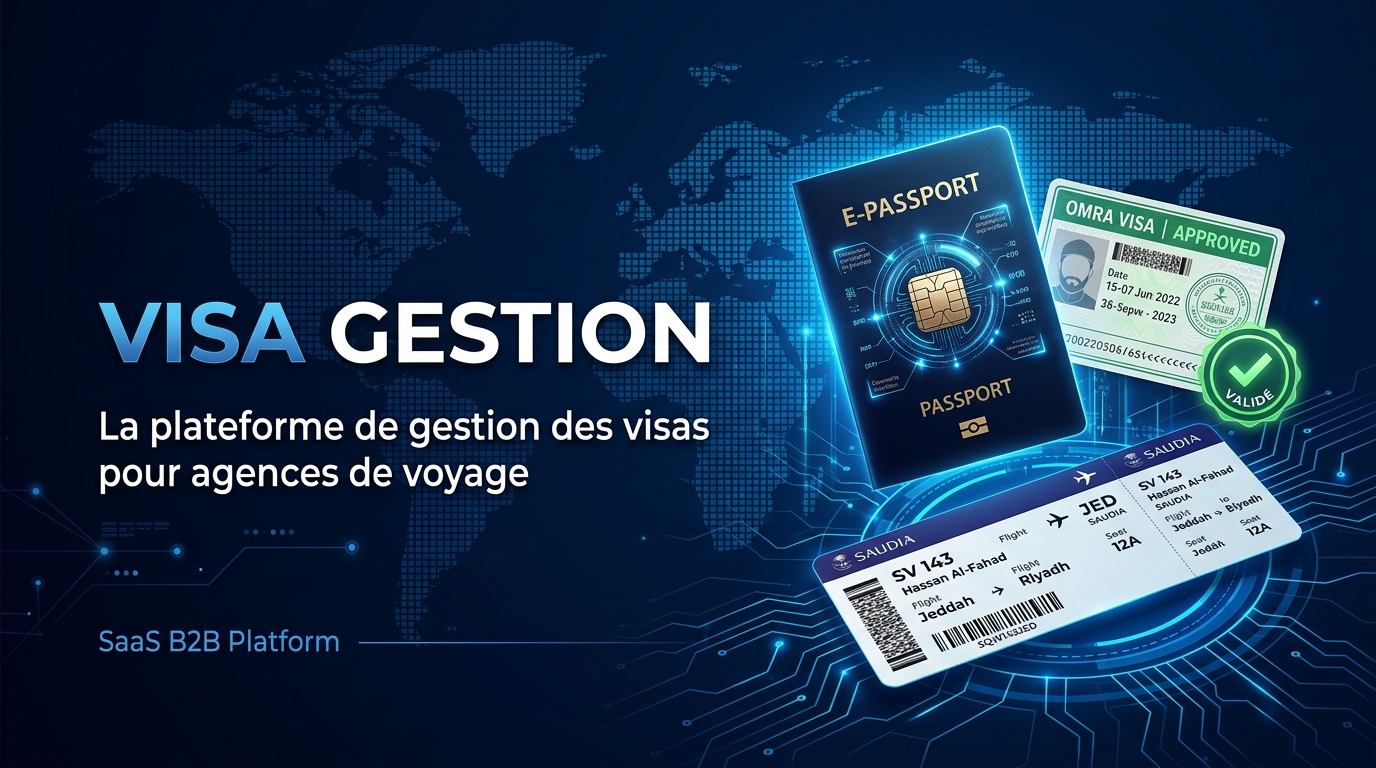
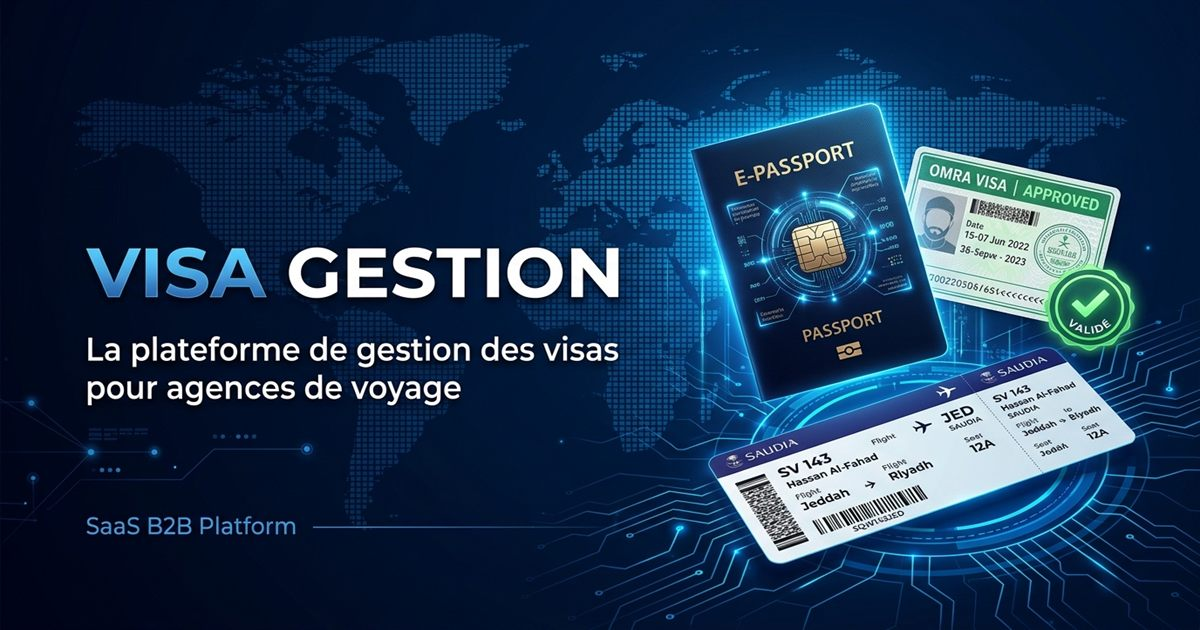
fix: compatibilite Open Graph WhatsApp Web (compression image sous 130KB, ratio 1200x630, tag link image_src et balises statiques dans le head)

Changed region(s): [[0.6783, 0.7841, 0.7708, 0.8444], [0.6475, 0.2413, 0.7092, 0.2714]]

diff --git a/app/layout.tsx b/app/layout.tsx
@@ -43,10 +43,19 @@ export const metadata: Metadata = {
     description: 'Fini le chaos WhatsApp. Centralisez vos dossiers de visas, profitez de l\'extraction automatique par IA et suivez l\'état consulaire en temps réel.',
     images: [
       {
-        url: '/og-image.jpg',
+        url: 'https://visa-gestion.vercel.app/og-image.jpg',
+        secureUrl: 'https://visa-gestion.vercel.app/og-image.jpg',
         width: 1200,
         height: 630,
         alt: 'Visa Gestion — Plateforme SaaS B2B pour Agences de Voyages et Formalités Consulaires',
+        type: 'image/jpeg',
+      },
+      {
+        url: 'https://visa-gestion.vercel.app/og-image-square.jpg',
+        secureUrl: 'https://visa-gestion.vercel.app/og-image-square.jpg',
+        width: 600,
+        height: 600,
+        alt: 'Visa Gestion Logo & Emblème',
         type: 'image/jpeg',
       },
     ],
@@ -55,7 +64,7 @@ export const metadata: Metadata = {
     card: 'summary_large_image',
     title: 'Visa Gestion — SaaS B2B Visas & Agences de Voyage',
     description: 'Centralisez les demandes de visas et documents de vos voyageurs en toute sécurité.',
-    images: ['/twitter-image.jpg'],
+    images: ['https://visa-gestion.vercel.app/twitter-image.jpg'],
     creator: '@VisaGestion',
   },
   robots: {
@@ -72,7 +81,36 @@ export default function RootLayout({
   return (
     <html lang="fr" className="h-full scroll-smooth">
       <head>
+        {/* Meta tags directes dans le <head> pour les crawlers légers (WhatsApp Web, iMessage, Skype) */}
+        <meta charSet="utf-8" />
+        <meta name="viewport" content="width=device-width, initial-scale=1" />
+        <link rel="canonical" href="https://visa-gestion.vercel.app/" />
+
+        {/* Open Graph & WhatsApp Web preview tags */}
+        <meta property="og:type" content="website" />
+        <meta property="og:site_name" content="Visa Gestion" />
+        <meta property="og:url" content="https://visa-gestion.vercel.app/" />
+        <meta property="og:title" content="Visa Gestion — La gestion des visas, enfin centralisée" />
+        <meta property="og:description" content="Fini le chaos WhatsApp. Centralisez vos dossiers de visas, profitez de l'extraction automatique par IA et suivez l'état consulaire en temps réel." />
+        <meta property="og:image" content="https://visa-gestion.vercel.app/og-image.jpg" />
+        <meta property="og:image:secure_url" content="https://visa-gestion.vercel.app/og-image.jpg" />
+        <meta property="og:image:type" content="image/jpeg" />
+        <meta property="og:image:width" content="1200" />
+        <meta property="og:image:height" content="630" />
+        <meta property="og:image:alt" content="Visa Gestion — Plateforme SaaS B2B Visas" />
+
+        {/* Tag image_src hérité indispensable pour le scraper de WhatsApp Web */}
+        <link rel="image_src" href="https://visa-gestion.vercel.app/og-image.jpg" />
+
+        {/* Twitter Cards */}
+        <meta name="twitter:card" content="summary_large_image" />
+        <meta name="twitter:title" content="Visa Gestion — SaaS B2B Visas & Agences de Voyage" />
+        <meta name="twitter:description" content="Centralisez les demandes de visas et documents de vos voyageurs en toute sécurité." />
+        <meta name="twitter:image" content="https://visa-gestion.vercel.app/twitter-image.jpg" />
+
+        {/* Favicons & App Icons */}
         <link rel="icon" href="/icon.svg" type="image/svg+xml" />
+        <link rel="icon" href="/favicon.svg" type="image/svg+xml" />
         <link rel="icon" href="/favicon.ico" sizes="any" />
         <link rel="apple-touch-icon" href="/apple-touch-icon.png" />
       </head>
